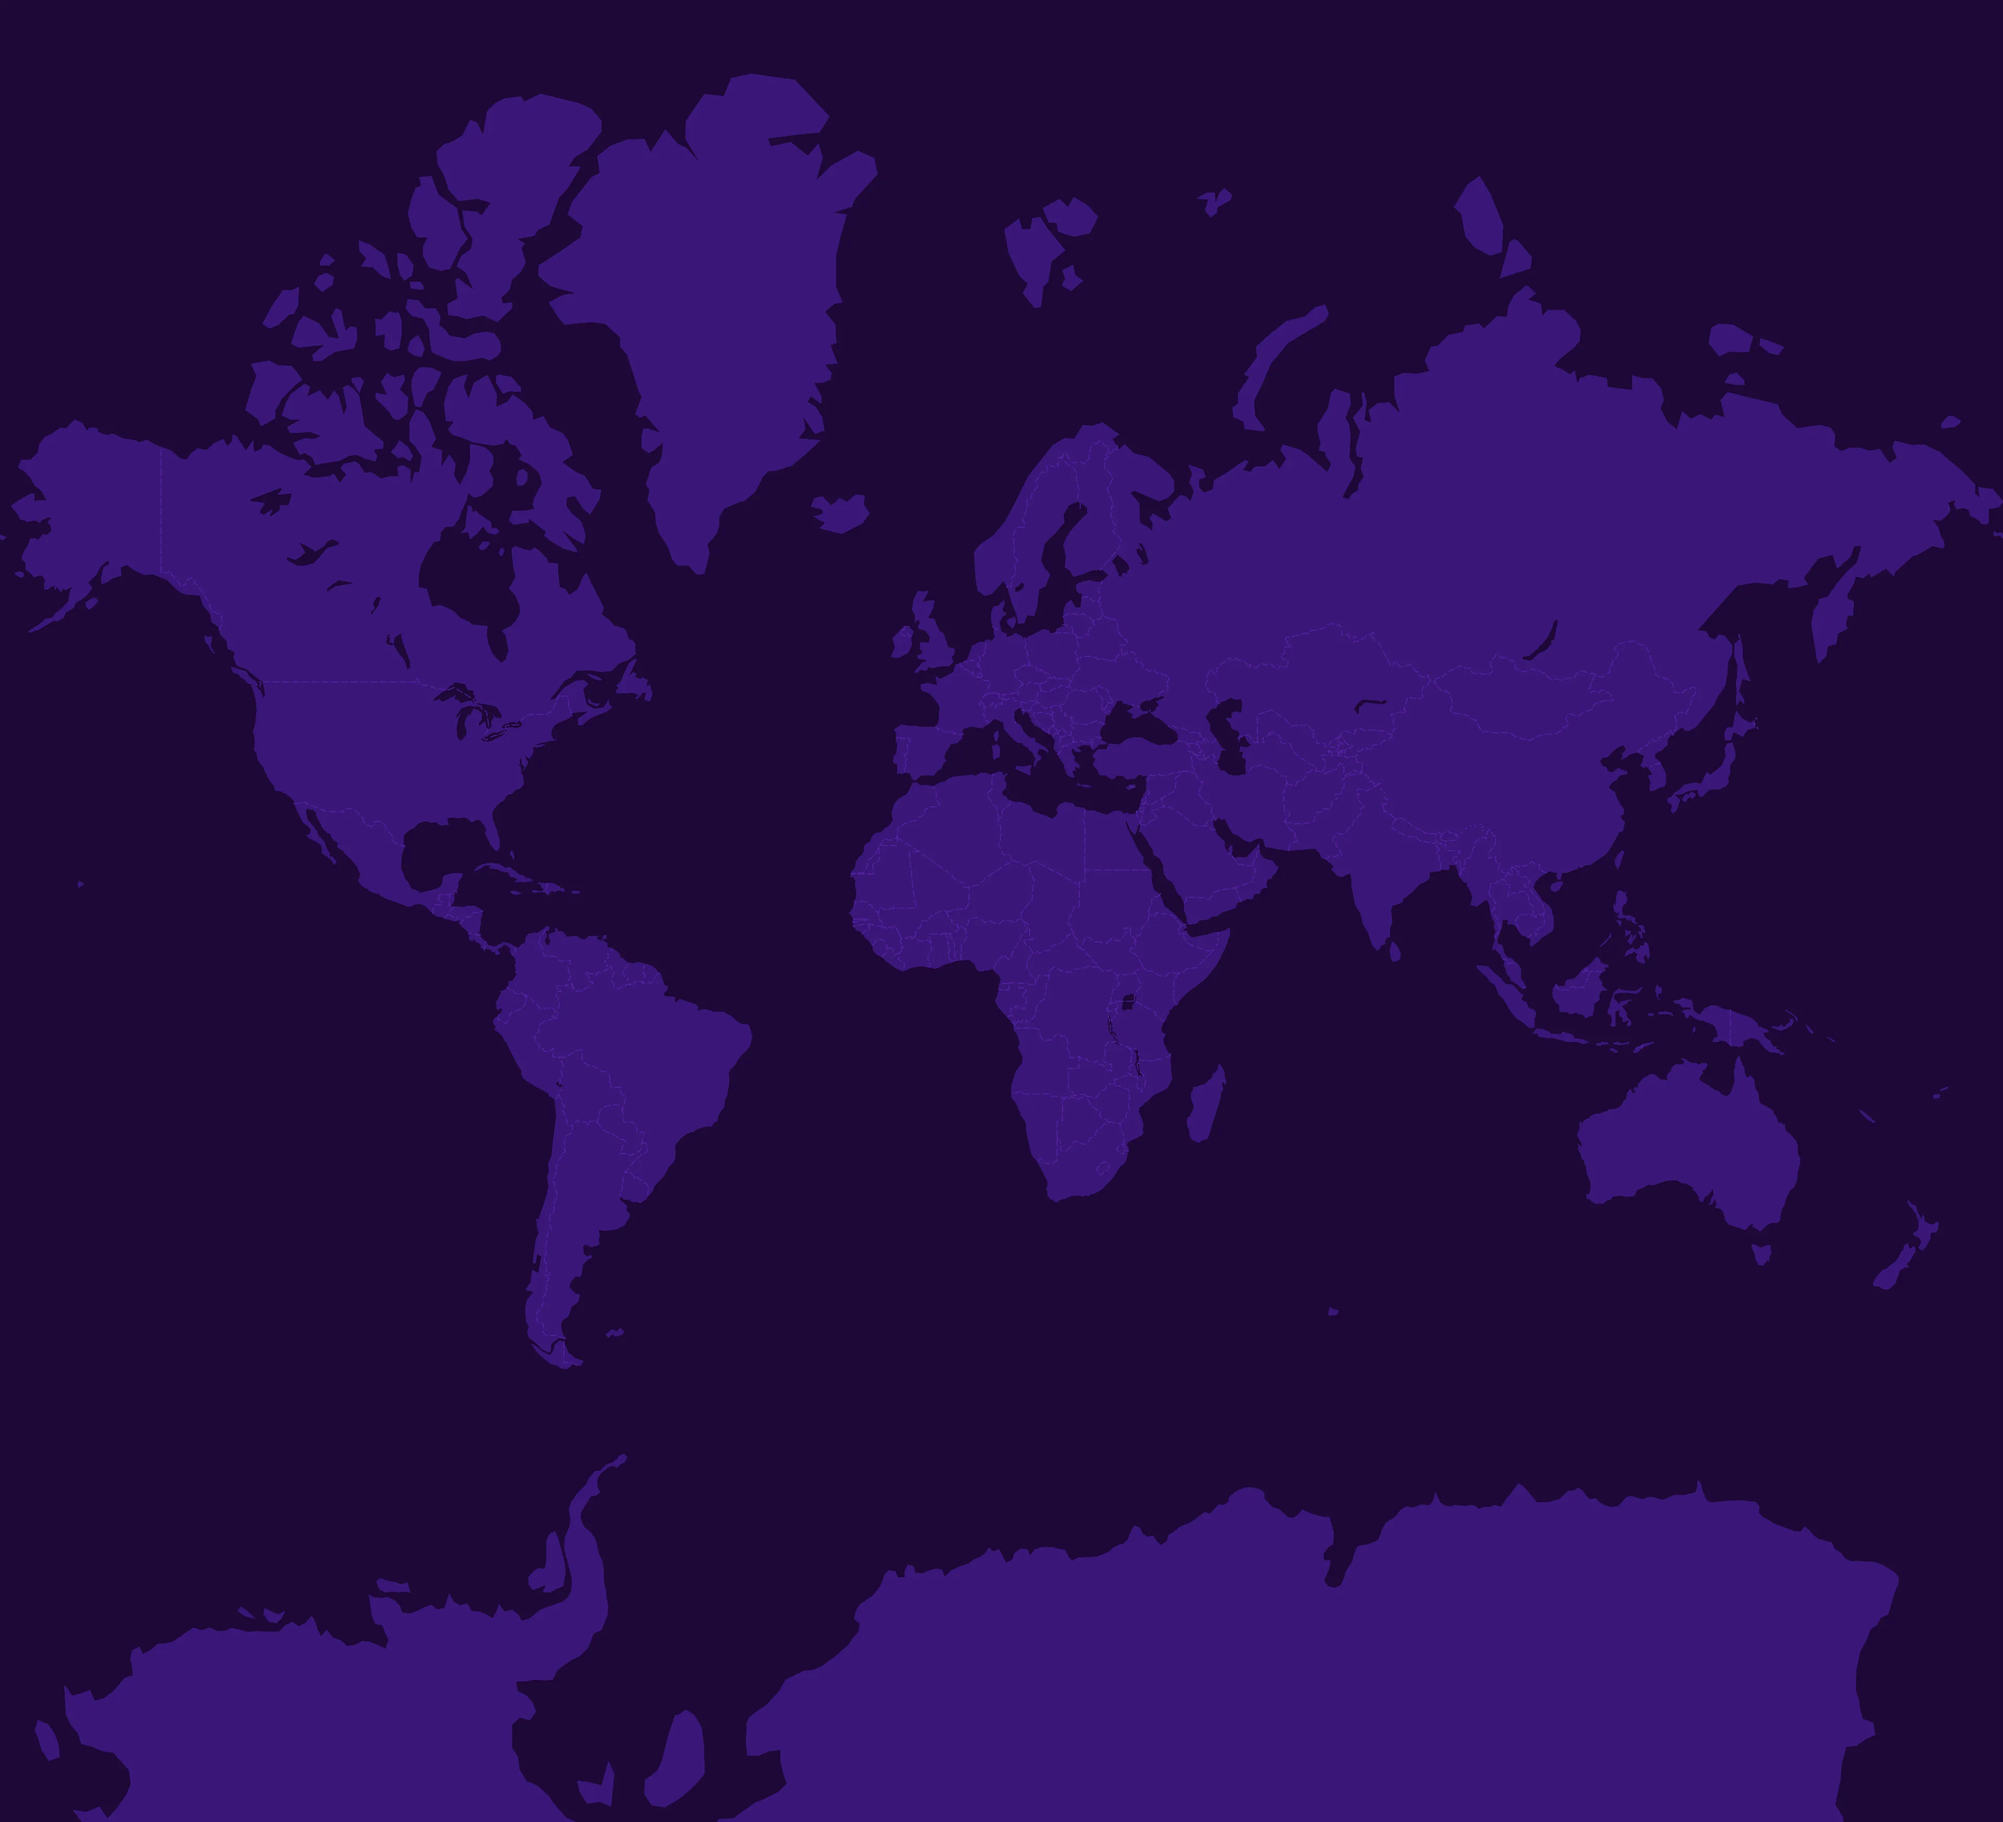
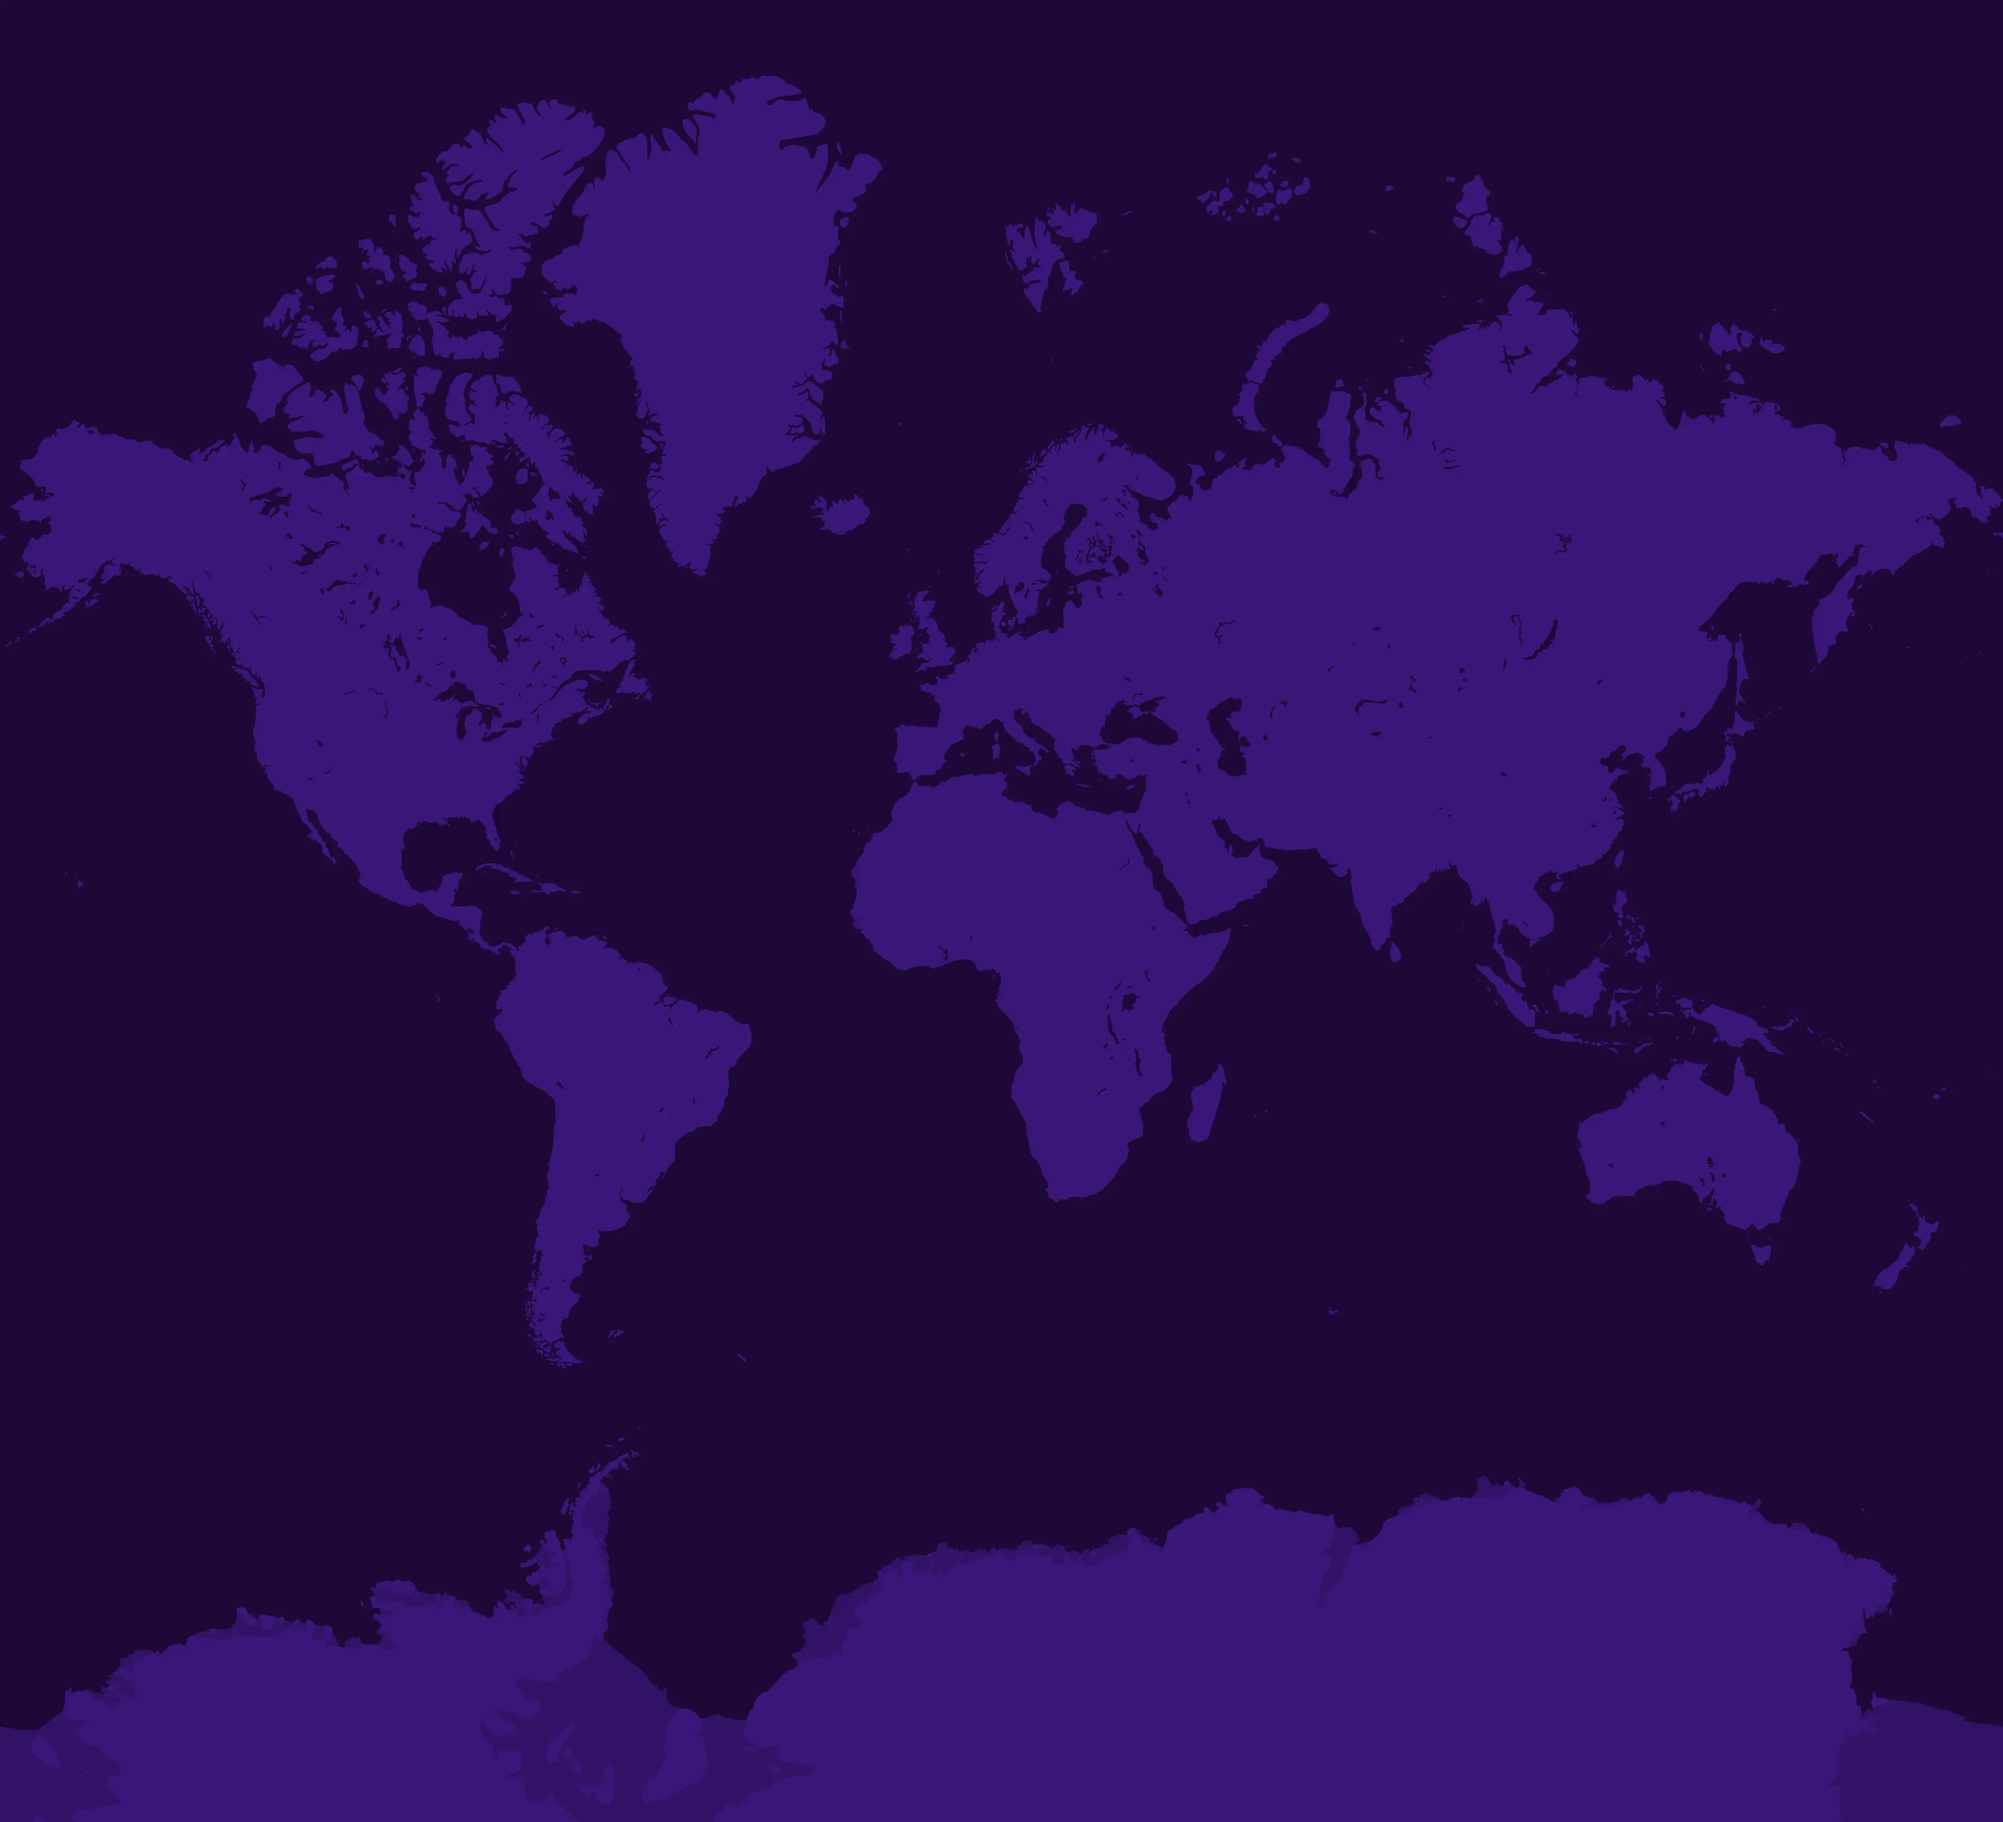
Leave the country borders off the login map

diff --git a/public/js/map/login-map.js b/public/js/map/login-map.js
@@ -25,13 +25,11 @@ const nightTurnedPartOf = (slide) => ((slide?.currentTime ?? 0) / DAY_ANIMATION_
 const slidingMapTime = () => new Date(Date.now() + nightTurnedPartOf(nightSlide) * DAY_MS);
 // The login map is the chat's map gone dark, in the deep purples of the
 // old street-map picture the login pages had. The land is a step brighter
-// than the water and the borders are a dimmed take on the picture's violet
-// roads: enough to tell the continents apart, not so much they pull the eye
-// from the form
+// than the water: enough to tell the continents apart, not so much it pulls
+// the eye from the form. The roads are a dimmed take on the picture's violet
 const DARK_MAP = {
     water: '#1e0839',
     land: '#3a1678',
-    border: '#5f24b0',
     road: '#4a2196',
 };
 // Night on the dark map: near black, and stronger, so it still shows, but
@@ -42,7 +40,6 @@ const DARK_LAYER_COLOURS = [
     {isLayer: ({id}) => id === 'background', paint: {'background-color': DARK_MAP.land}},
     {isLayer: ({id}) => id === 'water', paint: {'fill-color': DARK_MAP.water}},
     {isLayer: ({id}) => id === 'waterway', paint: {'line-color': DARK_MAP.water}},
-    {isLayer: ({id}) => /^boundary/.test(id), paint: {'line-color': DARK_MAP.border}},
     {isLayer: ({type}) => type === 'fill', paint: {'fill-color': DARK_MAP.land, 'fill-outline-color': DARK_MAP.land}},
     {isLayer: ({type}) => type === 'line', paint: {'line-color': DARK_MAP.road}},
 ];
@@ -135,10 +132,11 @@ function worldFillingZoomOf(container) {
     return Math.log2(neededSize / WORLD_SIZE_AT_ZOOM_0);
 }
 
-// Just the shapes: the place names and road numbers would crowd the form
+// Just the shapes: the place names and road numbers would crowd the form,
+// and at this zoom the borders show only as faint broken lines
 async function loadNamelessStyle() {
     const style = await loadThemedStyle();
-    style.layers = style.layers.filter((layer) => layer.type !== 'symbol');
+    style.layers = style.layers.filter((layer) => layer.type !== 'symbol' && !/^boundary/.test(layer.id));
     return style;
 }
 
